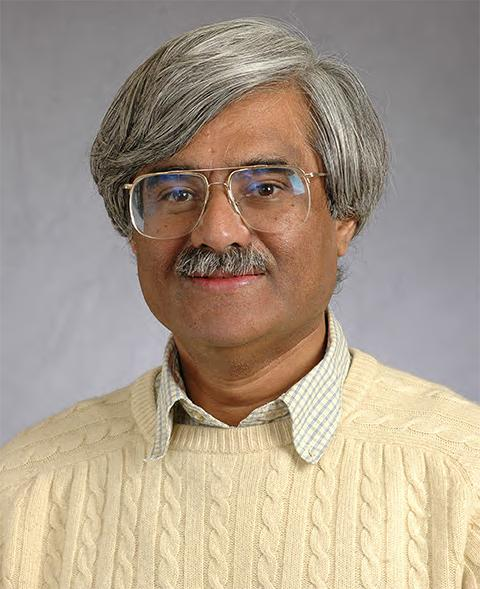
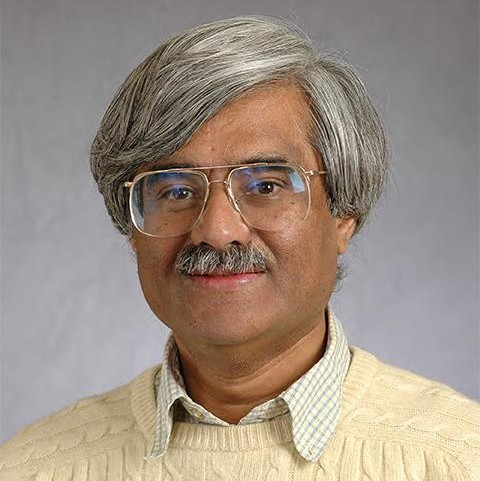
pic resize

diff --git a/layouts/index.html b/layouts/index.html
@@ -271,20 +271,14 @@ transparent {
 
 <div class="row">
   <div class="column">
-    <p>Morning speakers</p><br>
     <ul class="speakers-list">
     
       <li class="speakers-item" itemprop="performer" itemscope itemtype="http://schema.org/Person">
         <span class="speaker-photo">
-          <a href="https://jacobsschool.ucsd.edu/faculty/profile?id=68/" target="_blank"><img class="photo" src="https://safeav.github.io/img/m.trivedi.jpg" alt="Mohan Trivedi" itemprop="image"></a>
+          <a href="https://jacobsschool.ucsd.edu/faculty/profile?id=68/" target="_blank"><img class="photo" src="https://safeav.github.io/img/m.trivedi.jpg" alt="Mohan Trivedi"  itemprop="image"></a>
         </span>
 
-        <h3 class="speech-title">
-          
-           
-          
-            
-          
+        <h3 class="speech-title">  
         </h3>
 
         <h3 class="speakers-name"><a href="https://jacobsschool.ucsd.edu/faculty/profile?id=68/" target="_blank" title="Mohan Trivedi"> Mohan Trivedi </a>
@@ -292,17 +286,15 @@ transparent {
         <p class="speakers-bio">Professor<br> University of California, USA</p>
       </li>
     
+
+
+
       <li class="speakers-item" itemprop="performer" itemscope itemtype="http://schema.org/Person">
         <span class="speaker-photo">
           <a href="https://sites.google.com/view/mlv/people/professor/" target="_blank"><img class="photo" src="https://safeav.github.io/img/prof.jpg" alt="Moongu Jeon" itemprop="image"></a>
         </span>
 
         <h3 class="speech-title">
-          
-           
-          
-            
-          
         </h3>
 
         <h3 class="speakers-name"><a href="https://sites.google.com/view/mlv/people/professor/" target="_blank" title="Moongu Jeon"> Moongu Jeon </a>
@@ -310,17 +302,15 @@ transparent {
         <p class="speakers-bio">Professor<br>Gwangju Institute of Science and Technology, South Korea</p>
       </li>
     
+
+
+
       <li class="speakers-item" itemprop="performer" itemscope itemtype="http://schema.org/Person">
         <span class="speaker-photo">
           <a href="https://profiles.stanford.edu/marco-pavone/" target="_blank"><img class="photo" src="https://safeav.github.io/img/marco-pavone.jpg" alt="Marco Pavone" itemprop="image"></a>
         </span>
 
         <h3 class="speech-title">
-          
-           
-          
-            
-          
         </h3>
 
         <h3 class="speakers-name"><a href="https://profiles.stanford.edu/marco-pavone/" target="_blank" title="Marco Pavone"> Marco Pavone</a>
@@ -328,17 +318,14 @@ transparent {
         <p class="speakers-bio"> Associate Professor <br> Standford University, USA</p>
       </li>
     
+
+
       <li class="speakers-item" itemprop="performer" itemscope itemtype="http://schema.org/Person">
         <span class="speaker-photo">
           <a href="https://cs.lth.se/topp-elinanna/" target="_blank"><img class="photo" src="https://safeav.github.io/img/elin.jpg" alt="Elin Anna Topp" itemprop="image"></a>
         </span>
 
         <h3 class="speech-title">
-          
-           
-          
-            
-          
         </h3>
 
         <h3 class="speakers-name"><a href="https://cs.lth.se/topp-elinanna/" target="_blank" title="Elin Anna Topp"> Elin Anna Topp </a>
@@ -346,10 +333,10 @@ transparent {
         <p class="speakers-bio">Head of AI Research<br>Cruise</p>
       </li>
     
+
     </ul>
   </div>
   <div class="column">
-    <p>Afternoon and also Morning speakers</p><br>
     <ul class="speakers-list">
     
       <li class="speakers-item" itemprop="performer" itemscope itemtype="http://schema.org/Person">
@@ -357,12 +344,7 @@ transparent {
           <a href="https://rowanmcallister.github.io/" target="_blank"><img class="photo" src="https://safeav.github.io/img/rowanSquare.jpg" alt="Rowan McAllister" itemprop="image"></a>
         </span>
 
-        <h3 class="speech-title">
-          
-          
-          
-          
-          
+        <h3 class="speech-title"> 
         </h3>
 
         <h3 class="speakers-name"><a href="https://rowanmcallister.github.io/" target="_blank" title="Rowan McAllister"> Rowan McAllister</a>
@@ -370,15 +352,15 @@ transparent {
         <p class="speakers-bio">Staff Research Scientist <br>Waymo</p>
       </li>
     
+
+
+
       <li class="speakers-item" itemprop="performer" itemscope itemtype="http://schema.org/Person">
         <span class="speaker-photo">
-          <a href="https://m-naumann.github.io/index.html" target="_blank"><img class="photo" src="https://safeav.github.io/img/maximilian.jpeg" alt="Maximilian Naumann" itemprop="image"></a>
+          <a href="https://m-naumann.github.io/index.html" target="_blank"><img class="photo" src="https://safeav.github.io/img/max.jpeg" alt="Maximilian Naumann" itemprop="image"></a>
         </span>
 
         <h3 class="speech-title">
-          
-          
-          
         </h3>
 
         <h3 class="speakers-name"><a href="https://m-naumann.github.io/index.html" target="_blank" title="Maximilian Naumann"> Maximilian Naumann</a>

diff --git a/public/index.html b/public/index.html
@@ -236,20 +236,14 @@ transparent {
 
 <div class="row">
   <div class="column">
-    <p>Morning speakers</p><br>
     <ul class="speakers-list">
     
       <li class="speakers-item" itemprop="performer" itemscope itemtype="http://schema.org/Person">
         <span class="speaker-photo">
-          <a href="https://jacobsschool.ucsd.edu/faculty/profile?id=68/" target="_blank"><img class="photo" src="https://safeav.github.io/img/m.trivedi.jpg" alt="Mohan Trivedi" itemprop="image"></a>
+          <a href="https://jacobsschool.ucsd.edu/faculty/profile?id=68/" target="_blank"><img class="photo" src="https://safeav.github.io/img/m.trivedi.jpg" alt="Mohan Trivedi"  itemprop="image"></a>
         </span>
 
-        <h3 class="speech-title">
-          
-           
-          
-            
-          
+        <h3 class="speech-title">  
         </h3>
 
         <h3 class="speakers-name"><a href="https://jacobsschool.ucsd.edu/faculty/profile?id=68/" target="_blank" title="Mohan Trivedi"> Mohan Trivedi </a>
@@ -257,17 +251,15 @@ transparent {
         <p class="speakers-bio">Professor<br> University of California, USA</p>
       </li>
     
+
+
+
       <li class="speakers-item" itemprop="performer" itemscope itemtype="http://schema.org/Person">
         <span class="speaker-photo">
           <a href="https://sites.google.com/view/mlv/people/professor/" target="_blank"><img class="photo" src="https://safeav.github.io/img/prof.jpg" alt="Moongu Jeon" itemprop="image"></a>
         </span>
 
         <h3 class="speech-title">
-          
-           
-          
-            
-          
         </h3>
 
         <h3 class="speakers-name"><a href="https://sites.google.com/view/mlv/people/professor/" target="_blank" title="Moongu Jeon"> Moongu Jeon </a>
@@ -275,17 +267,15 @@ transparent {
         <p class="speakers-bio">Professor<br>Gwangju Institute of Science and Technology, South Korea</p>
       </li>
     
+
+
+
       <li class="speakers-item" itemprop="performer" itemscope itemtype="http://schema.org/Person">
         <span class="speaker-photo">
           <a href="https://profiles.stanford.edu/marco-pavone/" target="_blank"><img class="photo" src="https://safeav.github.io/img/marco-pavone.jpg" alt="Marco Pavone" itemprop="image"></a>
         </span>
 
         <h3 class="speech-title">
-          
-           
-          
-            
-          
         </h3>
 
         <h3 class="speakers-name"><a href="https://profiles.stanford.edu/marco-pavone/" target="_blank" title="Marco Pavone"> Marco Pavone</a>
@@ -293,17 +283,14 @@ transparent {
         <p class="speakers-bio"> Associate Professor <br> Standford University, USA</p>
       </li>
     
+
+
       <li class="speakers-item" itemprop="performer" itemscope itemtype="http://schema.org/Person">
         <span class="speaker-photo">
           <a href="https://cs.lth.se/topp-elinanna/" target="_blank"><img class="photo" src="https://safeav.github.io/img/elin.jpg" alt="Elin Anna Topp" itemprop="image"></a>
         </span>
 
         <h3 class="speech-title">
-          
-           
-          
-            
-          
         </h3>
 
         <h3 class="speakers-name"><a href="https://cs.lth.se/topp-elinanna/" target="_blank" title="Elin Anna Topp"> Elin Anna Topp </a>
@@ -311,10 +298,10 @@ transparent {
         <p class="speakers-bio">Head of AI Research<br>Cruise</p>
       </li>
     
+
     </ul>
   </div>
   <div class="column">
-    <p>Afternoon and also Morning speakers</p><br>
     <ul class="speakers-list">
     
       <li class="speakers-item" itemprop="performer" itemscope itemtype="http://schema.org/Person">
@@ -322,12 +309,7 @@ transparent {
           <a href="https://rowanmcallister.github.io/" target="_blank"><img class="photo" src="https://safeav.github.io/img/rowanSquare.jpg" alt="Rowan McAllister" itemprop="image"></a>
         </span>
 
-        <h3 class="speech-title">
-          
-          
-          
-          
-          
+        <h3 class="speech-title"> 
         </h3>
 
         <h3 class="speakers-name"><a href="https://rowanmcallister.github.io/" target="_blank" title="Rowan McAllister"> Rowan McAllister</a>
@@ -335,15 +317,15 @@ transparent {
         <p class="speakers-bio">Staff Research Scientist <br>Waymo</p>
       </li>
     
+
+
+
       <li class="speakers-item" itemprop="performer" itemscope itemtype="http://schema.org/Person">
         <span class="speaker-photo">
-          <a href="https://m-naumann.github.io/index.html" target="_blank"><img class="photo" src="https://safeav.github.io/img/maximilian.jpeg" alt="Maximilian Naumann" itemprop="image"></a>
+          <a href="https://m-naumann.github.io/index.html" target="_blank"><img class="photo" src="https://safeav.github.io/img/max.jpeg" alt="Maximilian Naumann" itemprop="image"></a>
         </span>
 
         <h3 class="speech-title">
-          
-          
-          
         </h3>
 
         <h3 class="speakers-name"><a href="https://m-naumann.github.io/index.html" target="_blank" title="Maximilian Naumann"> Maximilian Naumann</a>
